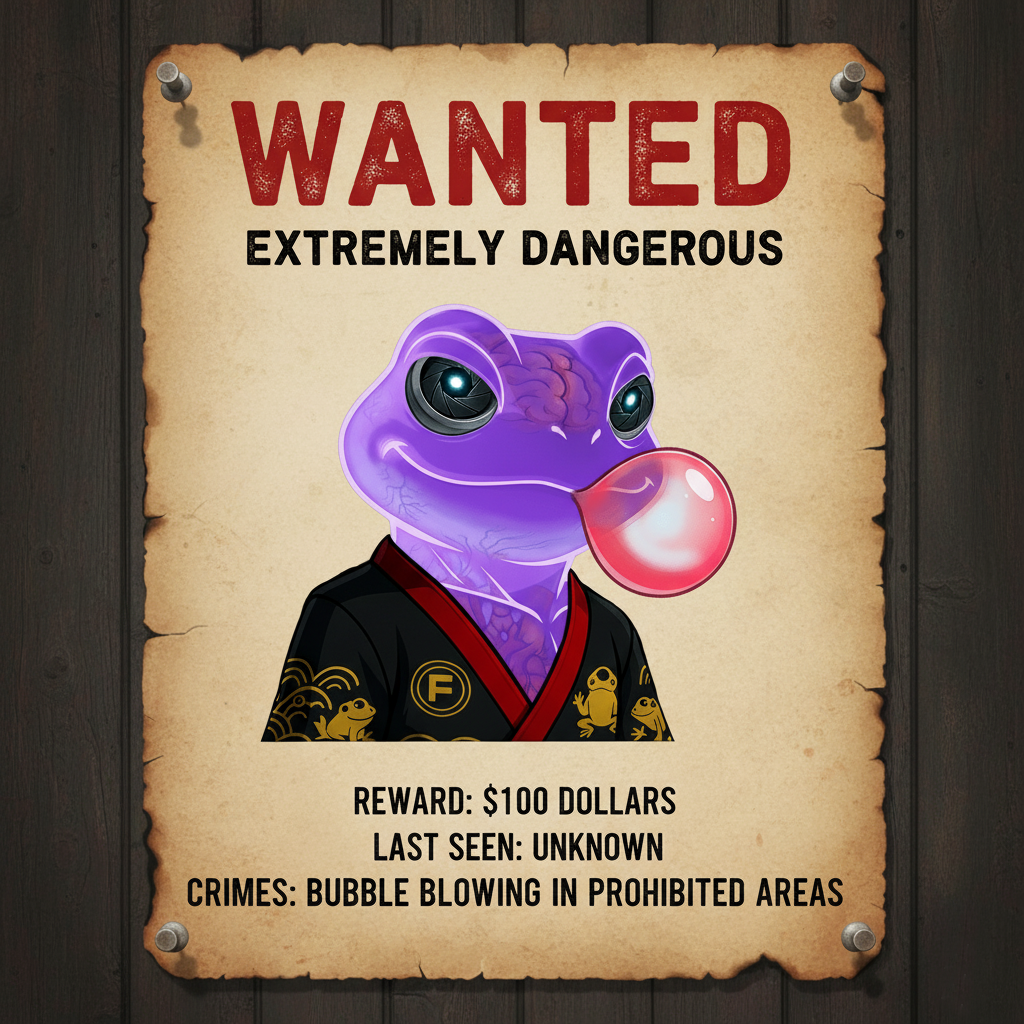
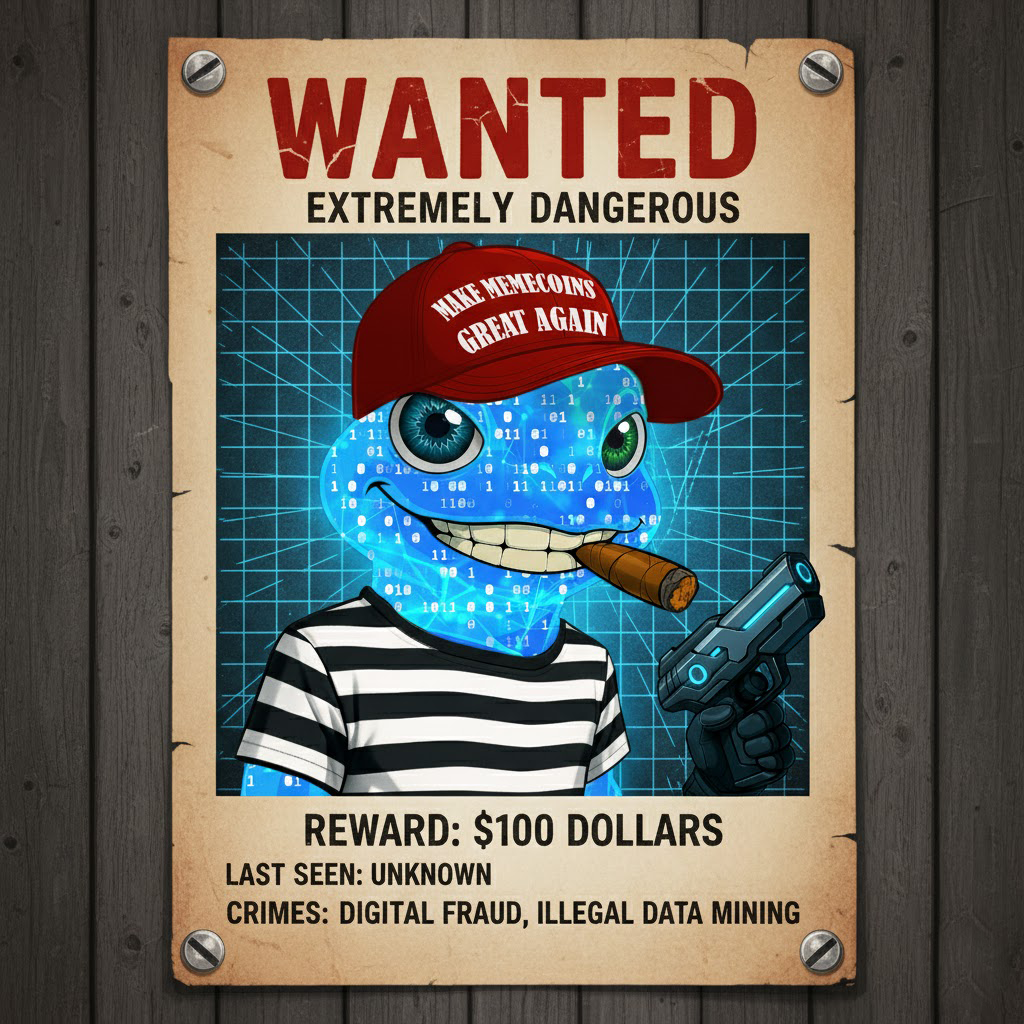
wanted

diff --git a/src/app/components/WantedBlock.tsx b/src/app/components/WantedBlock.tsx
@@ -17,13 +17,13 @@ const COPY = {
     `A highly dangerous FROC is wanted. Bounty: $${price}.`,
   traitsTitle: 'DISTINGUISHING FEATURES',
   traits: [
-    'Background — Sky Fade',
-    'Arm — Empty',
-    'Body — Jelly',
-    'Cloth — Ronin',
-    'Headdress — Empty',
-    'Eyes — Mechanic Eyes',
-    'Mouth — Bubble',
+    'Background — Brick Tone',
+    'Arm — blaster',
+    'Body — code',
+    'Cloth — striped tshirt',
+    'Headdress — MMGA cap',
+    'Eyes — eyes hetero',
+    'Mouth — cigar',
   ],
   howToTitle: 'HOW TO CLAIM THE BOUNTY',
   howToSteps: (price: number) => [

diff --git a/src/app/page.tsx b/src/app/page.tsx
@@ -84,7 +84,7 @@ export default function Page() {
 
 
             {/* <WantedBlock mode="caught" /> */}
-            <WantedBlock mode="caught" /> 
+            <WantedBlock mode='wanted' /> 
 
             {/* --- Showcase: превью NFT под цифрами --- */}
             <div className="mt-6">
